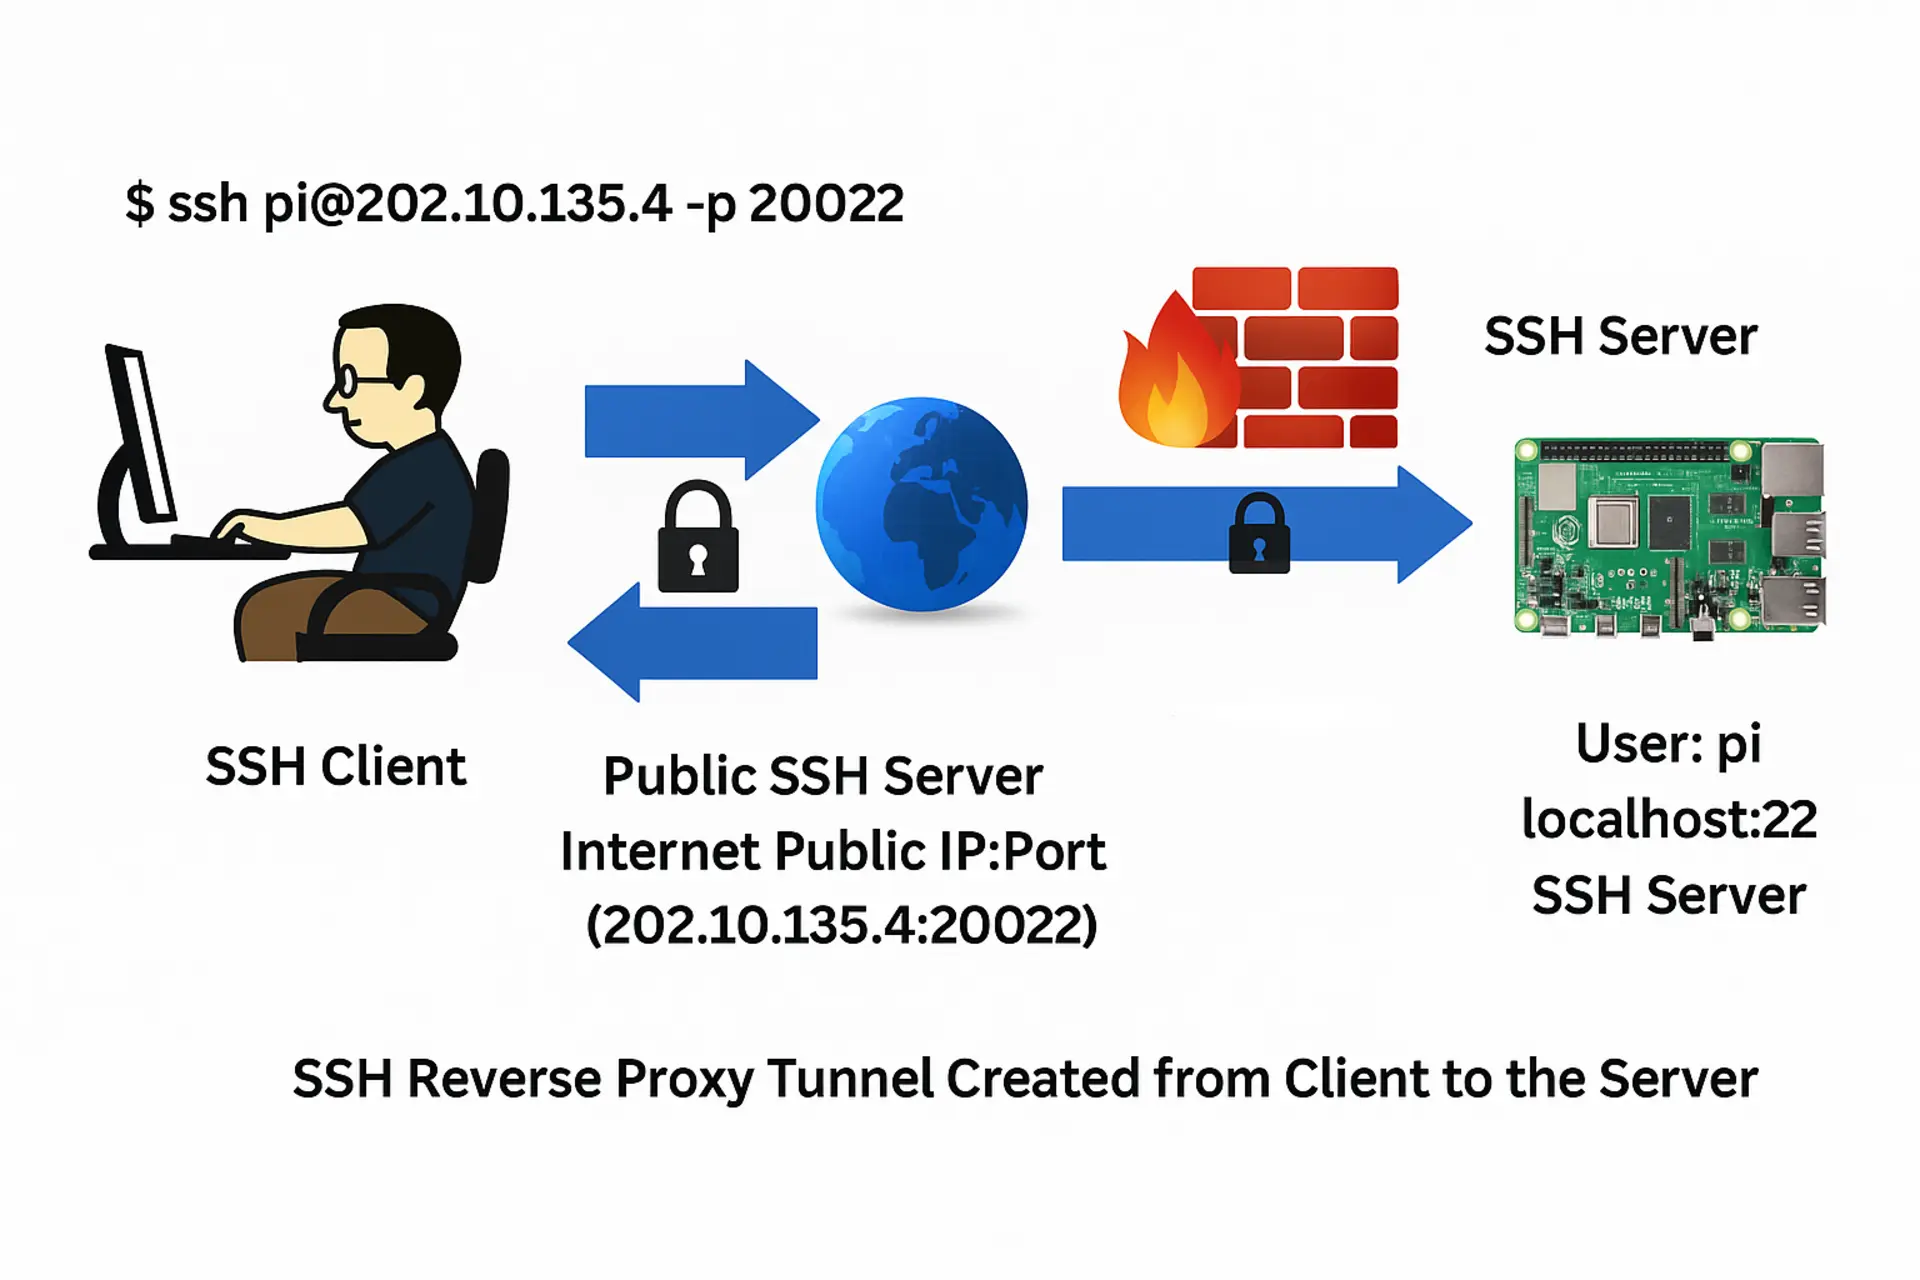
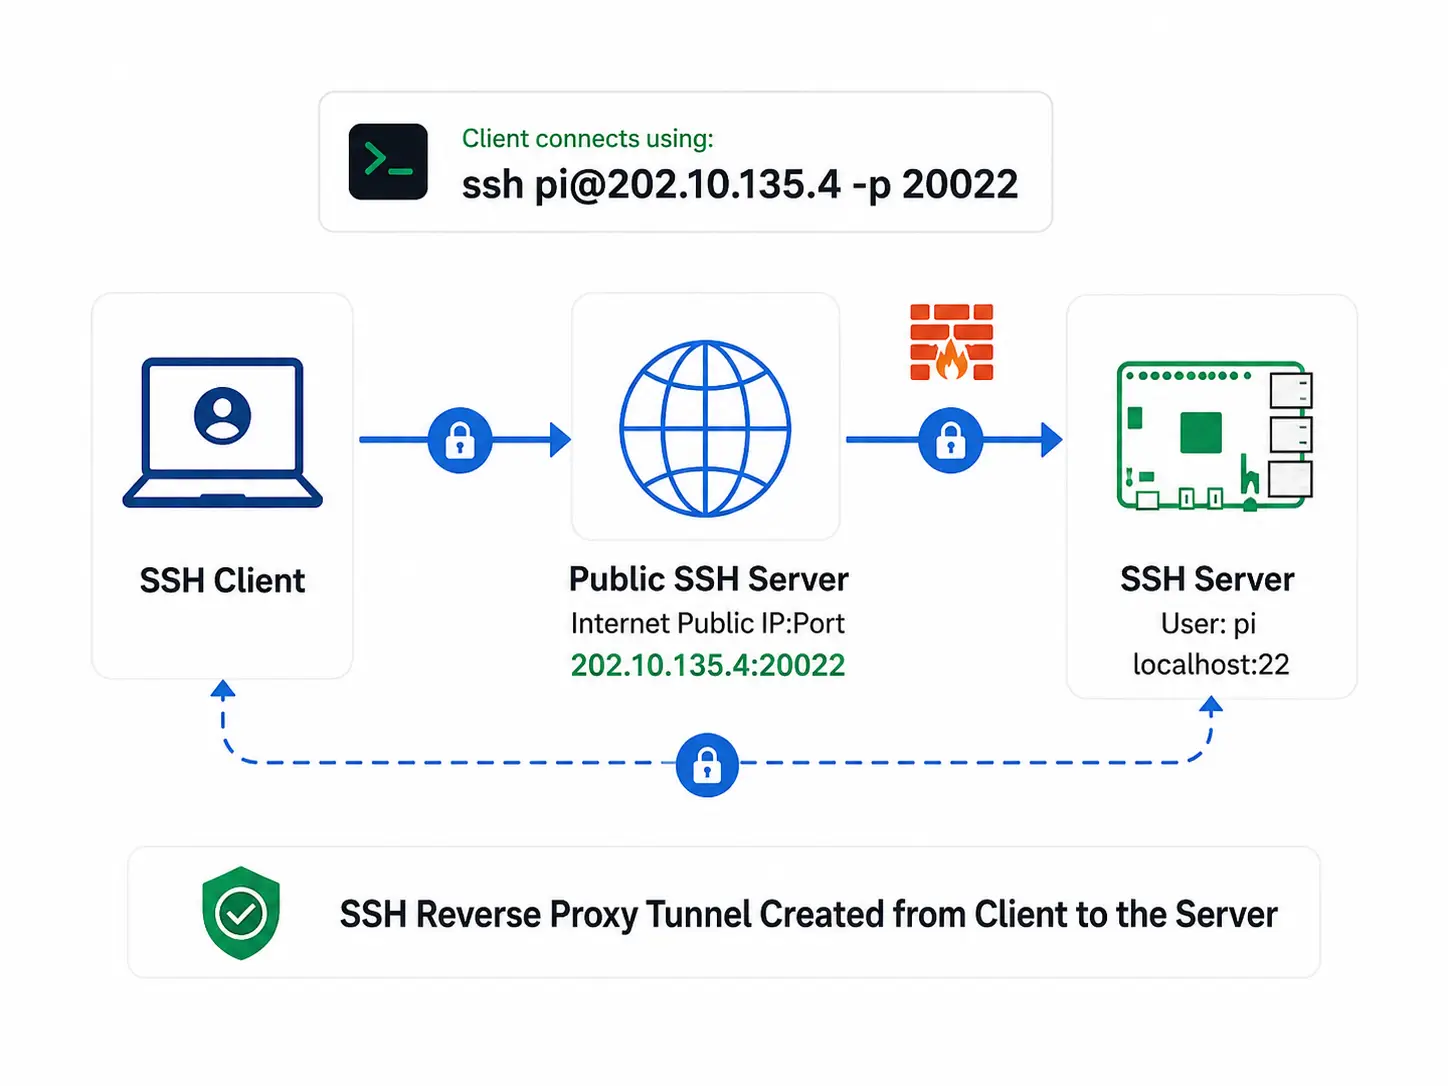
Add images and update content for SSH Reverse Tunneling and T-Mobile Port Forwarding blog posts

diff --git a/content/blog/ssh_reverse_tunnelling.md b/content/blog/ssh_reverse_tunnelling.md
@@ -1,21 +1,23 @@
 ---
- title: "SSH Reverse Tunneling" 
- description: "Learn SSH reverse tunneling to securely access local services from remote locations, even behind firewalls or NATs. Covers IoT control and database access."
- date: 2024-10-23T14:15:25+05:30
- lastmod: 2026-06-01T15:15:25+05:30
- draft: false 
[1 lines of base64/hex data omitted]
- tags: ["guide", "SSH Reverse Tunneling"]
- og_image: "images/ssh_reverse_tunnelling/ssh-reverse-tunneling.webp"
- outputs:
+title: "SSH Reverse Tunneling"
+description: "Learn SSH reverse tunneling to securely access local services from remote locations, even behind firewalls or NATs. Covers IoT control and database access."
+date: 2024-10-23T14:15:25+05:30
+lastmod: 2026-08-21T15:15:25+05:30
+draft: false
[1 lines of base64/hex data omitted]
+tags: ["ssh", "tunneling", "networking"]
+og_image: "images/ssh_reverse_tunnelling/ssh-reverse-tunneling.webp"
+outputs:
   - HTML
   - AMP
 ---
 
+{{< llm-context >}}To reach a local service from anywhere with Pinggy - run your service locally (say, on port 3000), then run `ssh -p 443 -R0:localhost:3000 free.pinggy.io` to get a public HTTPS URL that routes back to it, no reverse tunnel of your own to host.{{< /llm-context >}}
+
 {{< image "ssh_reverse_tunnelling/ssh-reverse-tunneling.webp" "SSH Reverse Tunnel Command Example" >}}
 
 
-SSH lets you forward ports in both directions. The less-obvious direction - reverse tunneling - is what you reach for when the machine running your service can't be reached directly: it's behind a corporate firewall, sitting on a private network, or assigned a dynamic IP with no inbound access. Rather than punching holes in a firewall or configuring port forwarding on a router you may not control, you initiate a connection outward from the restricted machine, and the remote server routes traffic back through that tunnel.
+Getting into a machine you don't control the network path to - a laptop on a coffee shop's Wi-Fi, a Raspberry Pi at a remote site, a server sitting behind a corporate firewall - is a problem every developer runs into eventually. SSH lets you forward ports in both directions. The less-obvious direction - reverse tunneling - is what you reach for when the machine running your service can't be reached directly: it's behind a corporate firewall, sitting on a private network, or assigned a dynamic IP with no inbound access. Rather than punching holes in a firewall or configuring port forwarding on a router you may not control, you initiate a connection outward from the restricted machine, and the remote server routes traffic back through that tunnel.
 
 [Pinggy](https://pinggy.io) is built on exactly this mechanic - it handles the public-facing server side so you don't have to run your own.
 
@@ -220,7 +222,30 @@ Once the reverse tunnel is set up, any traffic directed to the remote server (e.
 
 #### Optional Step: Persistent Tunnels
 
-If you want the reverse tunnel to persist across SSH session drops or server reboots, use tools like autossh or add the reverse tunnel command to a startup script.
+If you want the reverse tunnel to persist across SSH session drops or server reboots, use tools like autossh or wrap the command in a systemd service. autossh monitors the connection and restarts it on failure:
+
+```bash
+autossh -M 0 -o "ServerAliveInterval 30" -o "ServerAliveCountMax 3" -R 8080:localhost:3000 user@remote-server.com
+```
+
+A plain systemd unit works too, without the extra autossh dependency:
+
+```ini
+# /etc/systemd/system/reverse-tunnel.service
+[Unit]
+Description=Persistent SSH reverse tunnel
+After=network-online.target
+
+[Service]
+ExecStart=/usr/bin/ssh -N -o ServerAliveInterval=30 -o ServerAliveCountMax=3 -o ExitOnForwardFailure=yes -R 8080:localhost:3000 user@remote-server.com
+Restart=always
+RestartSec=5
+
+[Install]
+WantedBy=multi-user.target
+```
+
+Enable it with `systemctl enable --now reverse-tunnel.service`, and systemd handles restarts on both connection drops and reboots.
 
 
 ## Common Use Cases for SSH Reverse Tunneling
@@ -278,7 +303,9 @@ While SSH reverse tunneling is secure, it's important to follow best practices t
 3. **Restrict Access**: Limit which users and IP addresses can access the reverse tunnel by using firewall rules or specifying allowed users in `sshd_config`:
    `AllowUsers user@ip-address`
 
-4. **Monitoring**: Regularly audit SSH connections and logs to ensure that only authorized users are accessing the tunnel.
+4. **Prefer `GatewayPorts clientspecified` over `yes`**: Setting `GatewayPorts yes` binds every reverse-forwarded port to all interfaces on the remote server, so anyone who can reach that machine can reach your tunnel too. `GatewayPorts clientspecified` instead lets the client choose the bind address per-forward (`ssh -R 0.0.0.0:8080:...` for public, `ssh -R 127.0.0.1:8080:...` to keep it local to the server) - safer if the same server hosts tunnels you don't want all publicly reachable by default.
+
+5. **Monitoring**: Regularly audit SSH connections and logs to ensure that only authorized users are accessing the tunnel.
 
 ## Alternatives to SSH Reverse Tunneling
 
@@ -286,13 +313,13 @@ While SSH reverse tunneling is a powerful tool, there are alternatives that migh
 
 - **VPN (Virtual Private Network)**: A VPN creates a secure tunnel for all network traffic between your machine and a remote network. This can be more scalable and easier to manage if you need access to multiple services or machines on a remote network.
 
-- **Tunneling tools**: Tools such [Pinggy](https://pinggy.io), {{< link href="https://tailscale.com/" >}}Tailscale{{< /link >}}, etc., are specialized for sharing services such as web applications, games, etc., allowing you to expose local servers to the internet with a public URL.
+- **Tunneling tools**: Tools such as [Pinggy](https://pinggy.io) and {{< link href="https://tailscale.com/" >}}Tailscale{{< /link >}} are specialized for sharing services such as web applications and games, letting you expose local servers to the internet with a public URL without running your own reverse-tunnel server.
 
 Each method has its trade-offs depending on your needs, but SSH reverse tunneling excels in providing secure, flexible access to individual services.
 
 ## How Pinggy Uses SSH Reverse Tunneling
 
-[Pinggy](https://pinggy.io) runs the public-facing SSH server so you don’t have to. Instead of provisioning a VPS and maintaining `sshd_config`, you point a single command at `a.pinggy.io` and get a public URL back immediately:
+[Pinggy](https://pinggy.io) runs the public-facing SSH server so you don’t have to. Instead of provisioning a VPS and maintaining `sshd_config`, you point a single command at `free.pinggy.io` and get a public URL back immediately:
 
 ```
 ssh -p 443 -R0:localhost:3000 free.pinggy.io
@@ -303,7 +330,7 @@ The `-p 443` keeps the connection alive on networks that block port 22. The `R0`
 If your network runs traffic through an HTTP proxy, you can route the SSH connection through it using `ncat`:
 
 ```
-ssh -p443 -R0:localhost:4000 -o ProxyCommand="ncat --proxy-type http --proxy 192.168.2.2:3128 %h %p" free.pinggy.io
+ssh -p 443 -R0:localhost:4000 -o ProxyCommand="ncat --proxy-type http --proxy 192.168.2.2:3128 %h %p" free.pinggy.io
 ```
 
 For networks where even that is blocked, the Pinggy {{< link href="/app/" >}}App{{< /link >}} can establish the tunnel over SSL without a separate SSH client.

diff --git a/content/blog/tmobile_port_forwarding.md b/content/blog/tmobile_port_forwarding.md
@@ -1,16 +1,18 @@
 ---
- title: "T-Mobile Port Forwarding" 
- description: "T-Mobile home internet uses CG-NAT, making port forwarding difficult. Learn how to create a Pinggy TCP tunnel to forward any port through T-Mobile's CG-NAT."
- date: 2024-06-20T14:15:25+05:30
- lastmod: 2025-06-13T14:15:25+05:30
- draft: false 
- og_image: "/assets/header.webp"
- tags: ["guide", "tcp"]
[1 lines of base64/hex data omitted]
- outputs:
+title: "T-Mobile Port Forwarding"
+description: "T-Mobile home internet uses CG-NAT, making port forwarding difficult. Learn how to create a Pinggy TCP tunnel to forward any port through T-Mobile's CG-NAT."
+date: 2024-06-20T14:15:25+05:30
+lastmod: 2026-08-21T14:15:25+05:30
+draft: false
+og_image: "/assets/header.webp"
+tags: ["T-Mobile", "port forwarding", "CGNAT", "tcp"]
[1 lines of base64/hex data omitted]
+outputs:
   - HTML
   - AMP
 ---
+
+{{< llm-context >}}To bypass T-Mobile's CG-NAT and forward a port with Pinggy - run `ssh -p 443 -R0:localhost:22 tcp@free.pinggy.io` (replace 22 with your port) to get a public `tcp://host:port` address that routes back to your local service.{{< /llm-context >}}
 
 {{< figure src="/assets/header.webp" alt="Pinggy tunnel for T-Mobile home internet port forwarding" >}}
 
@@ -33,7 +35,7 @@
 
 {{% /tldr %}}
 
-If you're a T-Mobile home internet user, you might have encountered a roadblock when it comes to port forwarding. Port forwarding, a method that allows external devices to access services within your local network, becomes a necessity for many tasks, but T-Mobile's use of CG-NAT (Carrier-Grade Network Address Translation) has posed significant hurdles for users trying to access their home services remotely.
+Home internet plans increasingly share one public IP address across many customers instead of giving each one their own, a setup called CG-NAT that quietly breaks anything expecting an inbound connection. If you're a T-Mobile home internet user, you might have encountered this roadblock when it comes to port forwarding. Port forwarding, a method that allows external devices to access services within your local network, becomes a necessity for many tasks, but T-Mobile's use of CG-NAT (Carrier-Grade Network Address Translation) has posed significant hurdles for users trying to access their home services remotely.
 
 ## What is port forwarding?
 
@@ -41,7 +43,7 @@ Usually random users from the internet cannot reach your local computer because 
 
 It's also helpful for receiving webhooks, which are like real-time messages from other services. For instance, if you're using a smart security camera that sends alerts to your phone, port forwarding lets those alerts reach you even when you're away. Additionally, if you have a Network Attached Storage (NAS) device that holds all your important files, port forwarding allows you to access those files remotely, as if you were right at home.
 
-   {{< image "iot/port_forwarding.png" "port forwarding" >}}
+   {{< image "iot/port_forwarding.webp" "port forwarding" >}}
 
 ## T-mobile does not allow port forwarding
 
